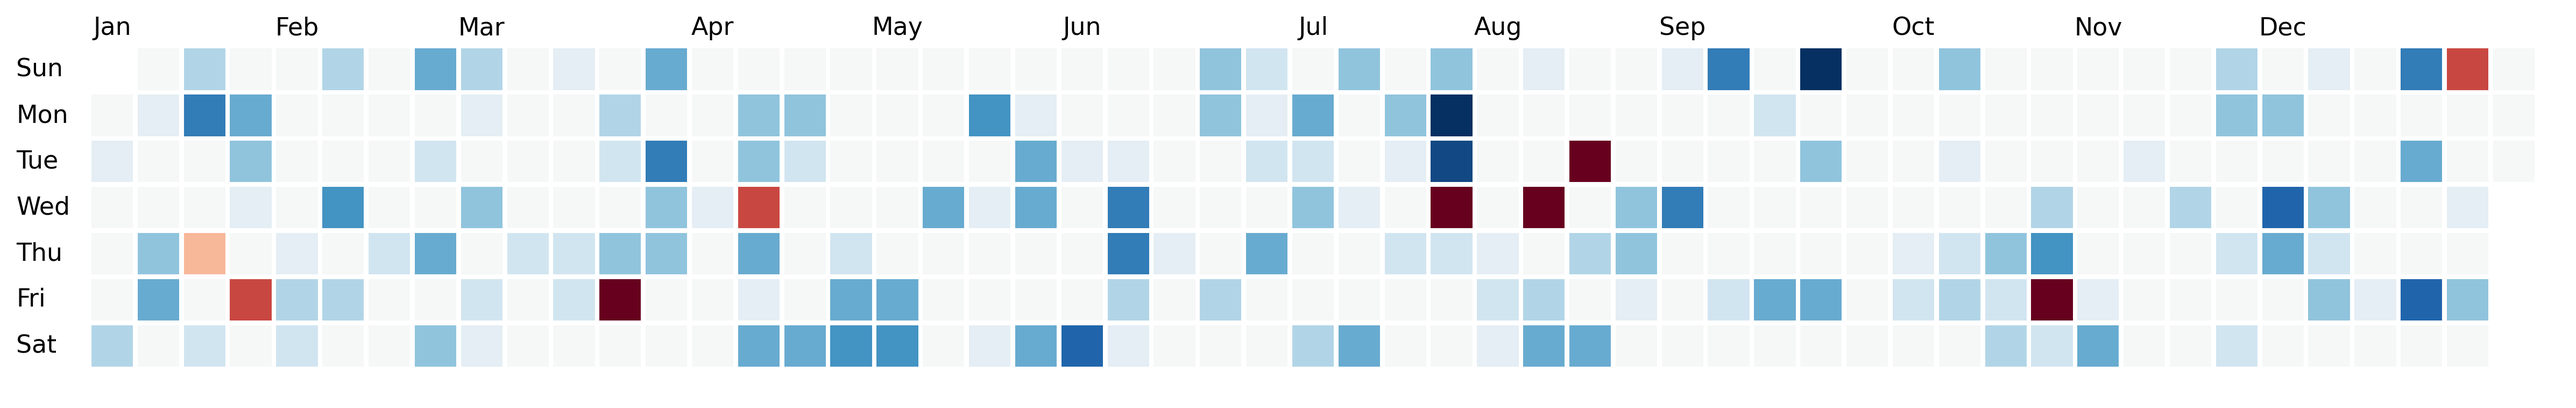
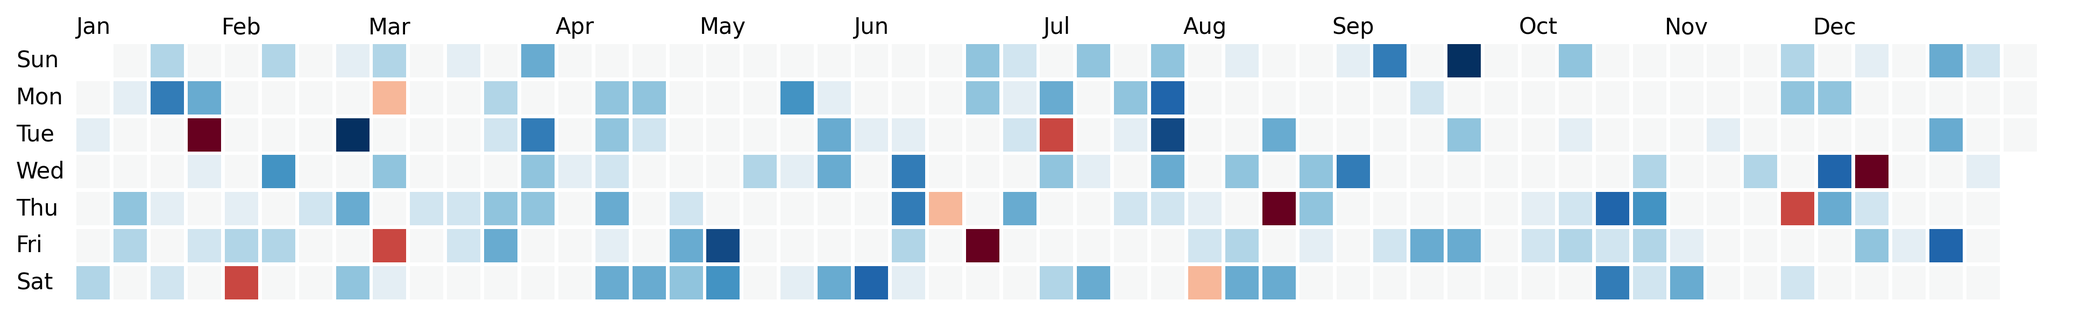
remove tight layout

diff --git a/docs/scripts/make.py b/docs/scripts/make.py
@@ -1,4 +1,6 @@
 import matplotlib.pyplot as plt
+import os
+from dotenv import load_dotenv
 
 import dayplot as dp
 
@@ -63,23 +65,23 @@ fig.savefig("docs/img/basic-styling/text.png", bbox_inches="tight", dpi=300)
 
 ########################################################################
 
-# load_dotenv()
-# token = os.getenv("GITHUB_TOKEN")
-# my_data = dp.fetch_github_contrib(
-#     username="JosephBARBIERDARNAL",
-#     github_token=token,
-#     start_date="2024-01-01T00:00:00Z",
-#     end_date="2024-12-31T23:59:59Z",
-# )
-# fig, ax = plt.subplots(figsize=(15, 6))
-# dp.calendar(
-#     my_data["dates"],
-#     my_data["values"],
-#     start_date="2024-01-01",
-#     end_date="2024-12-31",
-#     ax=ax,
-# )
-# fig.savefig("docs/img/github/github.png", bbox_inches="tight", dpi=300)
+load_dotenv()
+token = os.getenv("GITHUB_TOKEN")
+my_data = dp.fetch_github_contrib(
+    username="JosephBARBIERDARNAL",
+    github_token=token,
+    start_date="2024-01-01T00:00:00Z",
+    end_date="2024-12-31T23:59:59Z",
+)
+fig, ax = plt.subplots(figsize=(15, 6))
+dp.calendar(
+    my_data["dates"],
+    my_data["values"],
+    start_date="2024-01-01",
+    end_date="2024-12-31",
+    ax=ax,
+)
+fig.savefig("docs/img/github/github.png", bbox_inches="tight", dpi=300)
 
 ########################################################################
 

diff --git a/dayplot/main.py b/dayplot/main.py
@@ -30,6 +30,7 @@ def calendar(
     vmax: Optional[float] = None,
     vcenter: Optional[float] = None,
     boxstyle: Union[str, matplotlib.patches.BoxStyle] = "square",
+    legend: bool = True,
     ax: Optional[matplotlib.axes.Axes] = None,
     **kwargs,
 ) -> List[matplotlib.patches.Rectangle]:
@@ -290,7 +291,7 @@ def calendar(
         ax.add_patch(rect)
         rect_patches.append(rect)
 
-    month_text_style = dict(ha="center", va="center", size=11)
+    month_text_style = dict(ha="center", va="center", size=10)
     month_text_style.update(month_kws)
     month_starts = [d for d in full_range if d.day == 1]
     for m_start in month_starts:
@@ -310,7 +311,7 @@ def calendar(
     ax.invert_yaxis()
 
     day_text_style = dict(
-        transform=ax.get_yaxis_transform(), ha="left", va="center", size=11
+        transform=ax.get_yaxis_transform(), ha="left", va="center", size=10
     )
     day_text_style.update(day_kws)
 
@@ -319,7 +320,6 @@ def calendar(
     for y_tick, day_label in zip(ticks, labels):
         ax.text(-day_x_margin, y_tick, day_label, **day_text_style)
 
-    plt.tight_layout()
     return rect_patches
 
 

diff --git a/docs/scripts/gallery.py b/docs/scripts/gallery.py
@@ -23,7 +23,7 @@ def generate_gallery_markdown(image_dir, output_file, subdirs):
 
     output_file.parent.mkdir(parents=True, exist_ok=True)
 
-    markdown_lines = ["# Image Gallery\n"]
+    markdown_lines = ["# Gallery\n"]
 
     for subdir in subdirs:
         subdir_path = image_dir / subdir

diff --git a/docs/gallery.md b/docs/gallery.md
@@ -1,4 +1,4 @@
-# Image Gallery
+# Gallery
 
 ## Basic-styling
 
